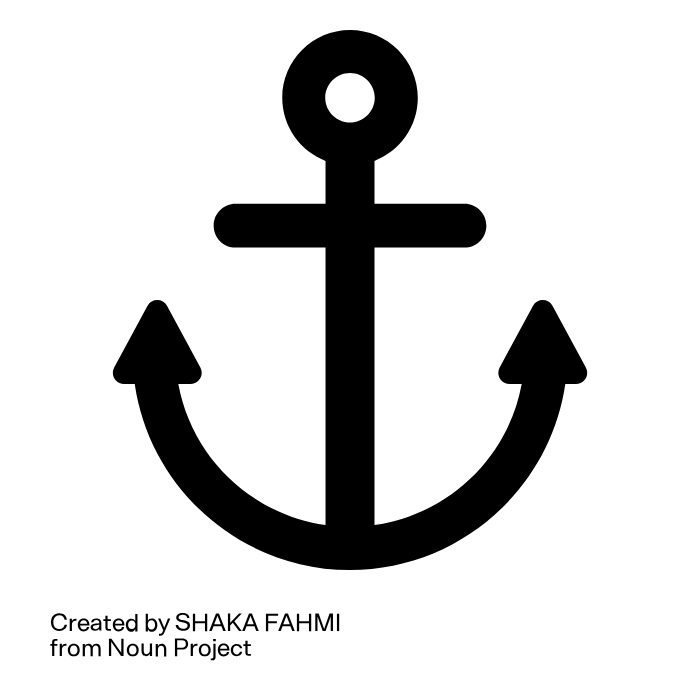
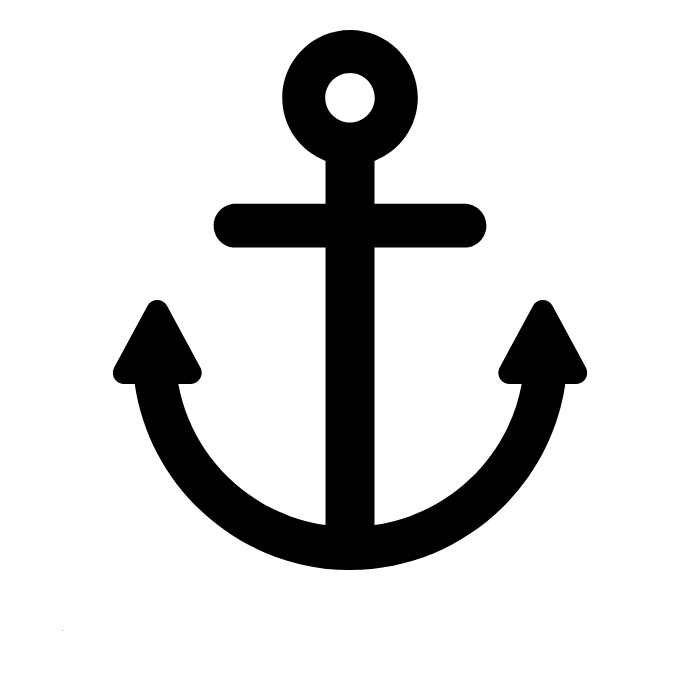
Names added

Changed region(s): [[0.06, 0.87, 0.51, 0.96]]

diff --git a/planner.py b/planner.py
@@ -2,7 +2,7 @@
 """Hex Grid Planner — place, move, and rotate unit icons on a cubic-coordinate hex grid."""
 
 import tkinter as tk
-from tkinter import filedialog, messagebox
+from tkinter import filedialog, messagebox, simpledialog
 import json
 import math
 import os
@@ -100,17 +100,19 @@ def make_token(icon_path: str, color_hex: str, size: int,
 
 class PlacedUnit:
     __slots__ = ("unit_name", "icon_path", "color_hex", "q", "r",
-                 "rotation", "canvas_id", "tk_image")
+                 "rotation", "label", "canvas_id", "label_id", "tk_image")
 
     def __init__(self, unit_name: str, icon_path: str, color_hex: str,
-                 q: int, r: int, rotation: float = 0.0):
+                 q: int, r: int, rotation: float = 0.0, label: str = ""):
         self.unit_name  = unit_name
         self.icon_path  = icon_path     # relative to SCRIPT_DIR
         self.color_hex  = color_hex     # 6-char hex, no '#'
         self.q          = q
         self.r          = r
         self.rotation   = rotation
+        self.label      = label
         self.canvas_id: int | None               = None
+        self.label_id:  int | None               = None
         self.tk_image:  ImageTk.PhotoImage | None = None
 
     @property
@@ -120,12 +122,12 @@ class PlacedUnit:
     def to_dict(self) -> dict:
         return dict(unit_name=self.unit_name, icon_path=self.icon_path,
                     color_hex=self.color_hex, q=self.q, r=self.r,
-                    rotation=self.rotation)
+                    rotation=self.rotation, label=self.label)
 
     @classmethod
     def from_dict(cls, d: dict) -> "PlacedUnit":
         return cls(d["unit_name"], d["icon_path"], d["color_hex"],
-                   d["q"], d["r"], d.get("rotation", 0.0))
+                   d["q"], d["r"], d.get("rotation", 0.0), d.get("label", ""))
 
 
 # ── Application ───────────────────────────────────────────────────────────────
@@ -397,6 +399,7 @@ class HexPlannerApp:
         self._draw_grid()
         for u in self.placed:
             u.canvas_id = None
+            u.label_id  = None
         seen: set[tuple[int, int]] = set()
         for u in self.placed:
             if (u.q, u.r) not in seen:
@@ -496,7 +499,7 @@ class HexPlannerApp:
         cols  = math.ceil(math.sqrt(n))
         rows  = math.ceil(n / cols)
         # Available diameter ≈ inscribed-circle diameter * 0.85
-        avail = self.hex_size * math.sqrt(3) * 0.85
+        avail = self.hex_size * math.sqrt(3) * 0.65
         sz    = max(8, int(avail / cols))
         spacing = sz * 1.05
         positions: list[tuple[float, float]] = []
@@ -517,6 +520,9 @@ class HexPlannerApp:
             if u.canvas_id is not None:
                 self.canvas.delete(u.canvas_id)
                 u.canvas_id = None
+            if u.label_id is not None:
+                self.canvas.delete(u.label_id)
+                u.label_id = None
         if not units:
             return
         cx, cy   = hex_to_pixel(q, r, self.hex_size)
@@ -538,6 +544,16 @@ class HexPlannerApp:
         unit.canvas_id = cid
         unit.tk_image  = tki
 
+        if unit.label:
+            font_size  = max(6, int(sz * 0.2))
+            fill_color = f"#{unit.color_hex}"
+            lid = self.canvas.create_text(
+                cx, cy + sz // 2 + font_size*0.7,
+                text=unit.label, fill=fill_color,
+                font=("Helvetica", font_size, "bold"),
+                tags="unitlabel")
+            unit.label_id = lid
+
     def _refresh_hi(self):
         if self.hi_id:
             self.canvas.delete(self.hi_id)
@@ -550,6 +566,8 @@ class HexPlannerApp:
         self.hi_id = self.canvas.create_polygon(
             pts, outline=self.PAL["accent"], fill="", width=3, tags="hi")
         self.canvas.tag_raise("hi")
+        self.canvas.tag_raise("unit")
+        self.canvas.tag_raise("unitlabel")
 
     def _on_canvas_press(self, event: tk.Event):
         cx = self.canvas.canvasx(event.x)
@@ -710,7 +728,12 @@ class HexPlannerApp:
         if not in_grid(q, r):
             return
 
-        pu = PlacedUnit(unit["name"], unit["icon"], self.selected_color, q, r)
+        label = simpledialog.askstring(
+            "Unit Name", f"Enter a name for this {unit['name']}:",
+            parent=self.root) or ""
+
+        pu = PlacedUnit(unit["name"], unit["icon"], self.selected_color, q, r,
+                        label=label)
         self.placed.append(pu)
         self._rerender_hex(q, r)
         self.selected = pu
@@ -761,6 +784,9 @@ class HexPlannerApp:
         if self.selected.canvas_id:
             self.canvas.delete(self.selected.canvas_id)
             self.selected.canvas_id = None
+        if self.selected.label_id:
+            self.canvas.delete(self.selected.label_id)
+            self.selected.label_id = None
         self.placed.remove(self.selected)
         if self.hi_id:
             self.canvas.delete(self.hi_id)